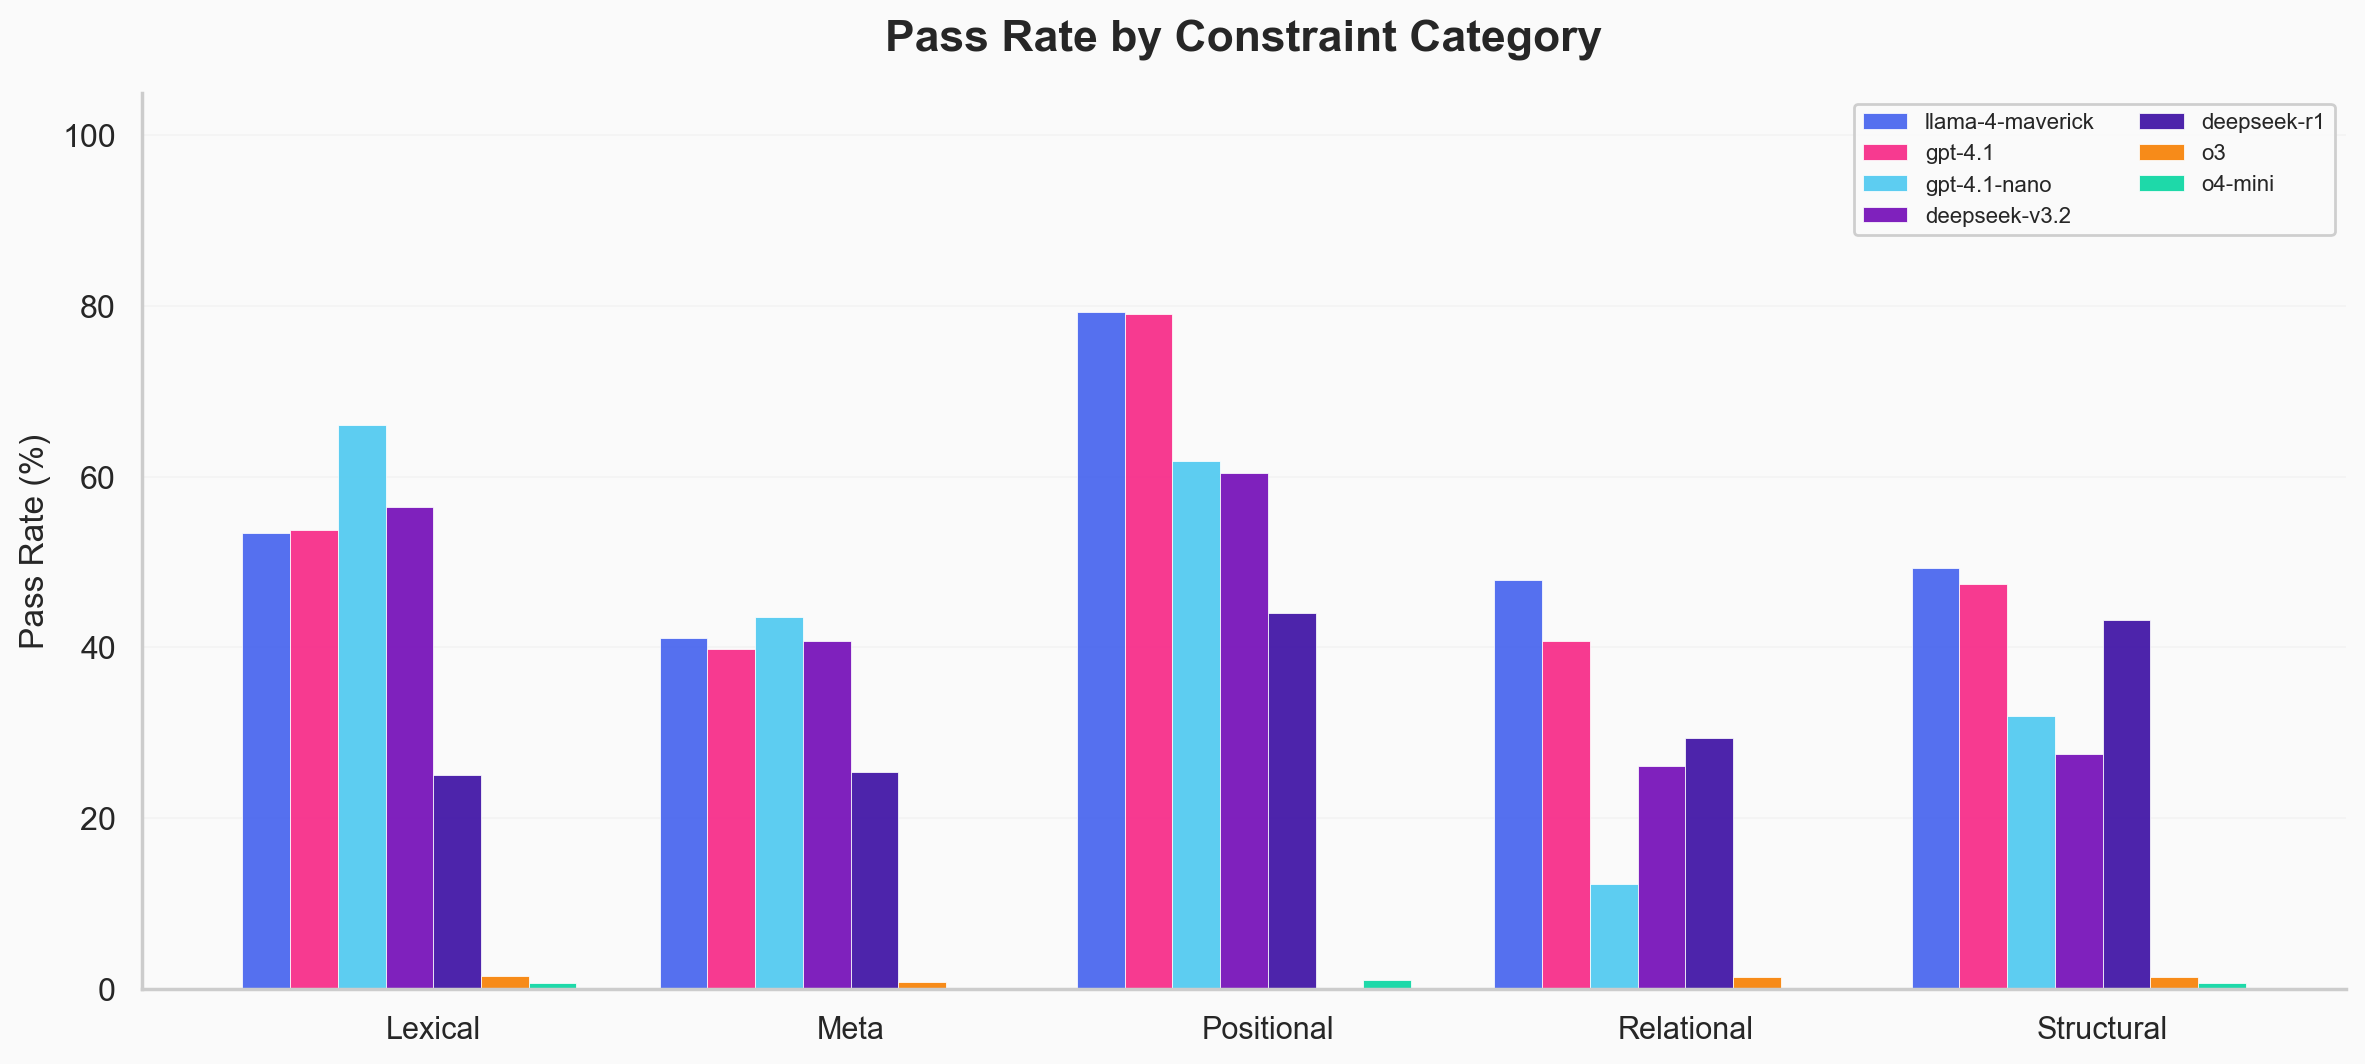
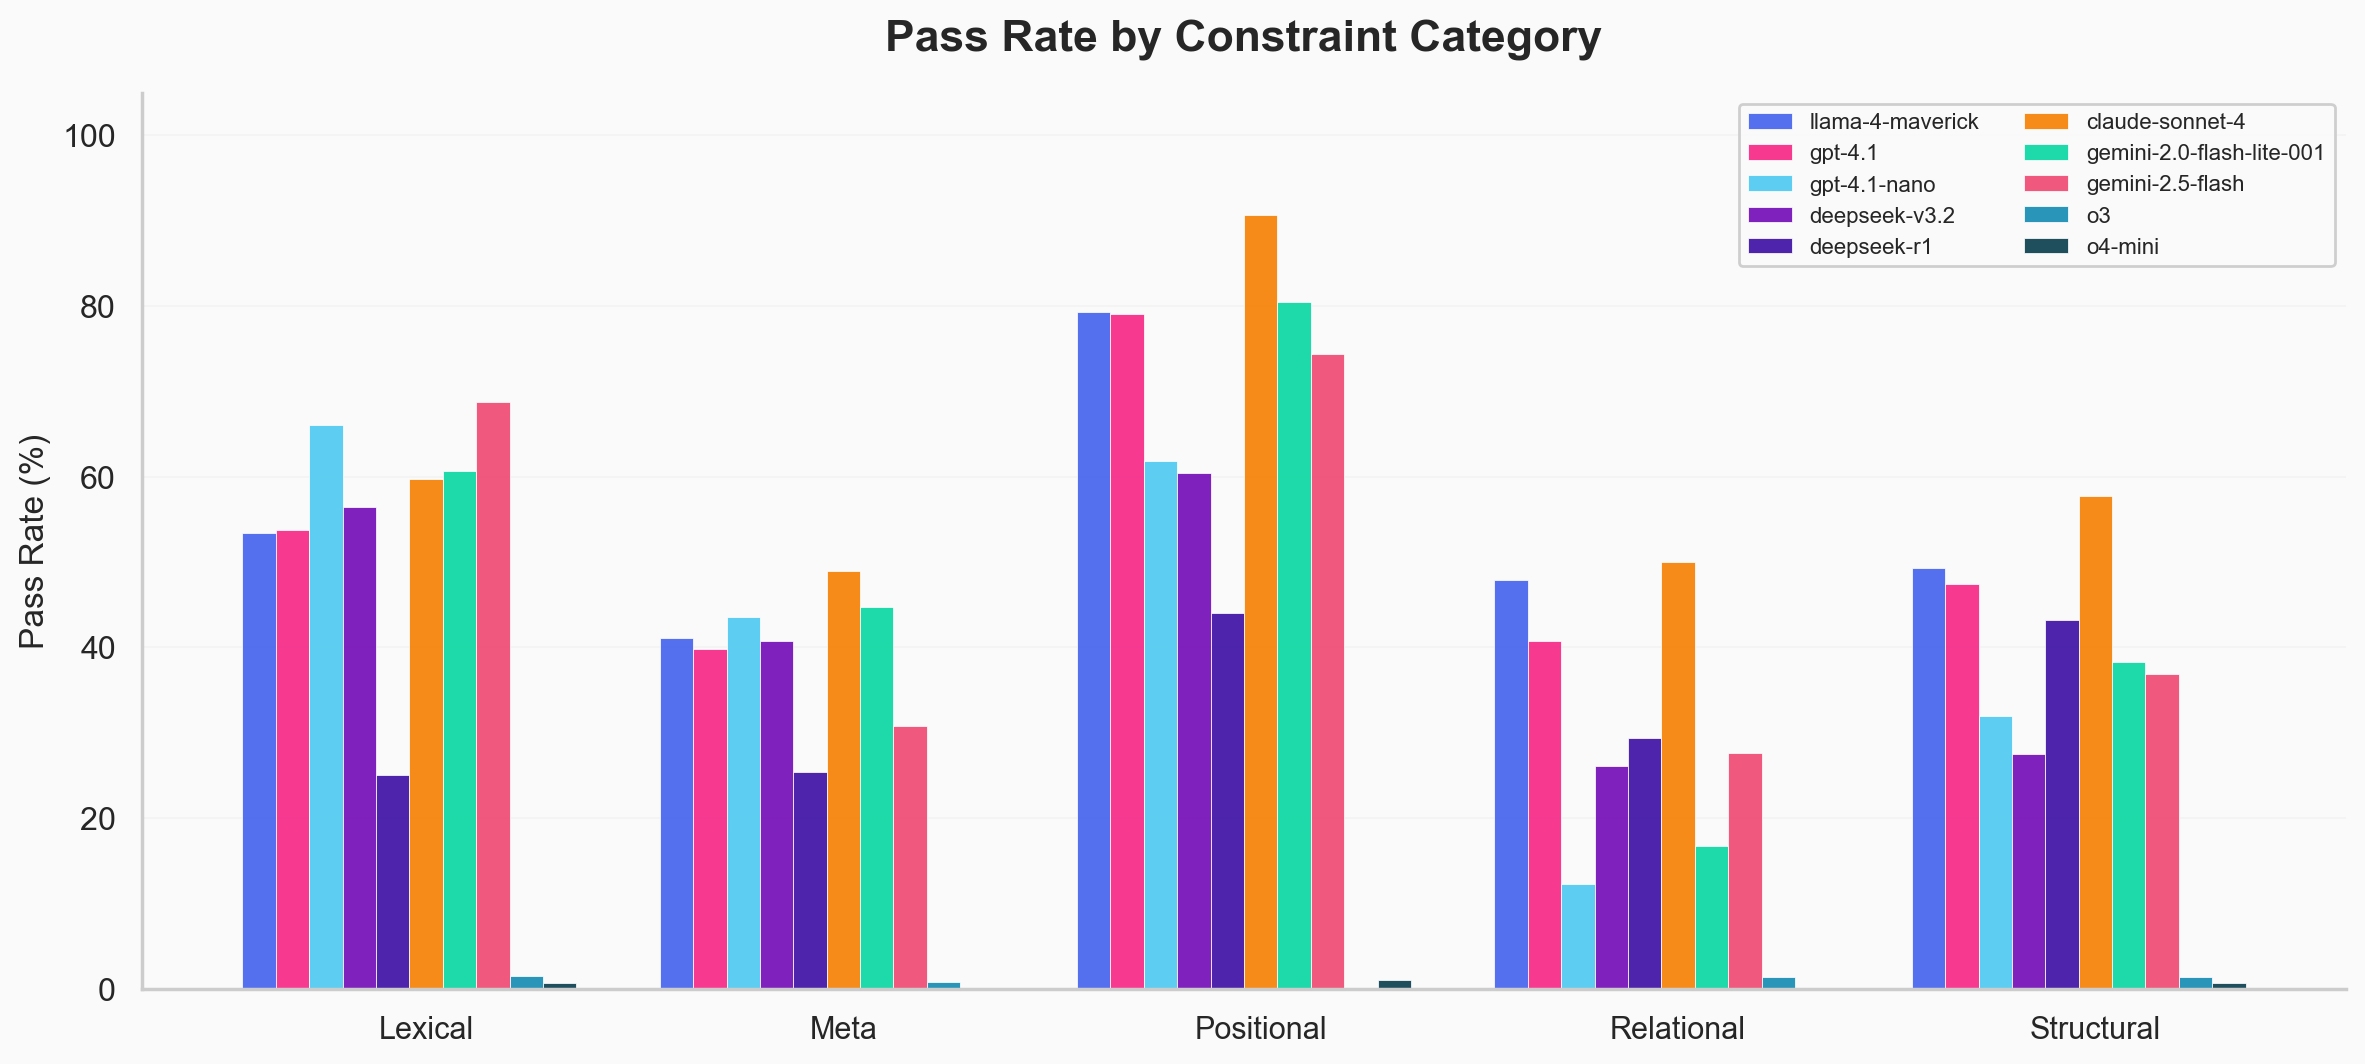
Merge all result files into charts, show all 11 models

diff --git a/visualization.py b/visualization.py
@@ -43,9 +43,16 @@ def setup_style():
 
 # ── Data loading ─────────────────────────────────────────────────────────────
 
-def load_results(path: str) -> dict:
-    with open(path) as f:
-        return json.load(f)
+def load_results(paths: list[str]) -> dict:
+    """Load and merge results from one or more JSON files. Last file wins on duplicates."""
+    merged = {"models": {}, "config": {}}
+    for path in paths:
+        with open(path) as f:
+            data = json.load(f)
+        merged["config"] = data.get("config", merged["config"])
+        for model_id, mdata in data["models"].items():
+            merged["models"][model_id] = mdata
+    return merged
 
 
 def short_name(model_id: str) -> str:
@@ -330,7 +337,7 @@ def plot_category_breakdown(results: dict, save_dir: str | None = None):
 
 def main():
     parser = argparse.ArgumentParser(description="AutismBench - Visualization")
-    parser.add_argument("results_file", help="Path to results JSON file")
+    parser.add_argument("results_files", nargs="+", help="Path(s) to results JSON files")
     parser.add_argument("--save", action="store_true", help="Save plots to ./assets/")
     parser.add_argument("--output-dir", type=str, default="assets", help="Output directory")
     parser.add_argument("--no-show", action="store_true", help="Don't show interactive plots")
@@ -340,7 +347,7 @@ def main():
         matplotlib.use("Agg")
 
     setup_style()
-    results = load_results(args.results_file)
+    results = load_results(args.results_files)
 
     save_dir = None
     if args.save:
